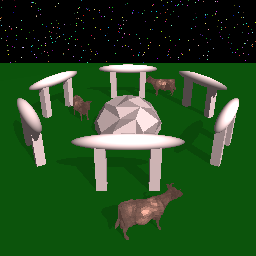
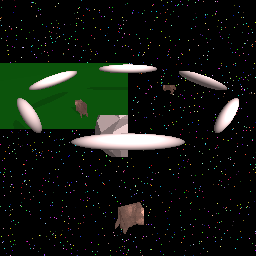
something's wrong

diff --git a/A4/Primitive.cpp b/A4/Primitive.cpp
@@ -56,47 +56,89 @@ Intersect NonhierSphere::checkIntersection(const Ray & ray) {
     }
 }
 
+const glm::dvec3 NonhierBox::normals[6] = {
+        // x axis
+        glm::dvec3(1, 0, 0), glm::dvec3(-1, 0, 0),
+
+        // y axis
+        glm::dvec3(0, 1, 0), glm::dvec3(0, -1, 0),
+
+        // z axis
+        glm::dvec3(0, 0, 1), glm::dvec3(0, 0, -1),
+    };
+
+
 NonhierBox::~NonhierBox()
 {
 }
 
 Intersect NonhierBox::checkIntersection(const Ray & ray) {
-    // TODO: six planes constructed from m_pos and m_size
-    // TODO: move these to static const
     // normals are just 6
     // Even indices are positive faces
-    glm::vec3 normals[6] = {
-        // x axis
-        glm::vec3(1, 0, 0), glm::vec3(-1, 0, 0),
-
-        // y axis
-        glm::vec3(0, 1, 0), glm::vec3(0, -1, 0),
-
-        // z axis
-        glm::vec3(0, 0, 1), glm::vec3(0, 0, -1),
-    };
-
     // index 0 for positive normals, index 1 for negative normals
-    glm::vec3 points[2] = {
-        m_pos+m_size*glm::vec3(1), m_pos,
-    };
-
-    
-    //glm::vec3 bounds[6] = {
 
     // Find all planes that the ray intersects with
     // It's at most 3
     //std::cout << "non hier box check intersection " << std::endl;
     //std::cout << "ray direction: " << glm::to_string(ray.direction) << std::endl;
+    //std::cout << glm::to_string(normals[0]) << std::endl;
+
+    //int planesHit = 0;
+    //Intersect closestIntersect = Intersect();
+    //for (int i=0; i<6 && planesHit < 3; i++) {
+    //    // Intersects plane if dot product of direction and normal is negative
+    //    // t is positive along the ray
+    //    // float directNormDot, pointNormDot;
+    //    if ( /*(directNormDot =*/ glm::dot(glm::dvec3(ray.direction), normals[i])/*)*/ < 0 && /*(pointNormDot =*/ glm::dot((glm::dvec3(ray.origin) - points[i%2]), normals[i])/*)*/ > 0) {
+
+    //        //double distanceHit = pointNormDot/(-directNormDot);
+    //        double distanceHit = glm::dot((glm::dvec3(ray.origin) - points[i%2]), normals[i])/(-glm::dot(glm::dvec3(ray.direction), normals[i]));
+    //        
+    //        // Intersects face if intersect point within bounds
+    //        glm::vec3 pointHit = ray.pointAtDistance(distanceHit);
+
+    //        // for each axis that we need to check
+    //        bool withinBounds = true;
+
+    //        std::cout << "distanceHit: " << distanceHit << std::endl;
+    //        std::cout << "dimension: " << glm::to_string(m_dimension) << std::endl;
+    //        std::cout << "m_pos: " << glm::to_string(m_pos) << std::endl;
+    //        if (withinBounds && normals[i].x == 0) {
+    //            withinBounds = withinBounds && pointHit.x >= m_pos.x && pointHit.x <= m_pos.x + m_dimension.x;
+    //        }
+    //        if (withinBounds && normals[i].y == 0) {
+    //            withinBounds = withinBounds && pointHit.y >= m_pos.y && pointHit.y <= m_pos.y + m_dimension.y;
+    //        }
+    //        if (withinBounds && normals[i].z == 0) {
+    //            withinBounds = withinBounds && pointHit.z >= m_pos.z && pointHit.z <= m_pos.y + m_dimension.z;
+    //        }
+
+    //        //std::cout << "ray intersected with plane " << glm::to_string(normals[i]) << " at " << glm::to_string(pointHit) << " " << withinBounds << std::endl;
+    //        planesHit++;
+
+    //        // It's a hit!
+    //        if (withinBounds) {
+    //            // since we're using normals, the ray should only hit one face
+    //            closestIntersect = Intersect(ray, true, distanceHit, normals[i]);
+    //            break;
+    //        }
+
+    //    }
+    //}
+    
+    //std::cout << std::endl;
+
     int planesHit = 0;
     Intersect closestIntersect = Intersect();
     for (int i=0; i<6 && planesHit < 3; i++) {
         // Intersects plane if dot product of direction and normal is negative
         // t is positive along the ray
         // TODO: store and reuse these dot products for effieciency
-        if (glm::dot(ray.direction, normals[i]) < 0 && glm::dot((ray.origin - points[i%2]), normals[i]) > 0) {
+        std::cout << "ray direction: " << glm::to_string(glm::dvec3(ray.direction)) << " " << glm::to_string(ray.direction) << std::endl;
+        std::cout << "ray direction: " << glm::to_string(glm::dvec3(ray.origin)) << " " << glm::to_string(ray.origin) << std::endl;
+        if (glm::dot(glm::dvec3(ray.direction), normals[i]) < 0 && glm::dot((glm::dvec3(ray.origin) - points[i%2]), normals[i]) > 0) {
 
-            double distanceHit = (glm::dot((ray.origin - points[i%2]), normals[i]))/(-glm::dot(ray.direction, normals[i]));
+            double distanceHit = (glm::dot((glm::dvec3(ray.origin) - points[i%2]), normals[i]))/(-glm::dot(glm::dvec3(ray.direction), normals[i]));
             
             // Intersects face if intersect point within bounds
             glm::vec3 pointHit = ray.pointAtDistance(distanceHit);
@@ -104,13 +146,13 @@ Intersect NonhierBox::checkIntersection(const Ray & ray) {
             // for each axis that we need to check
             bool withinBounds = true;
             if (withinBounds && normals[i].x == 0) {
-                withinBounds = withinBounds && pointHit.x >= m_pos.x && pointHit.x <= m_pos.x + m_size;
+                withinBounds = withinBounds && pointHit.x >= m_pos.x && pointHit.x <= m_pos.x + m_dimension.x;
             }
             if (withinBounds && normals[i].y == 0) {
-                withinBounds = withinBounds && pointHit.y >= m_pos.y && pointHit.y <= m_pos.y + m_size;
+                withinBounds = withinBounds && pointHit.y >= m_pos.y && pointHit.y <= m_pos.y + m_dimension.y;
             }
             if (withinBounds && normals[i].z == 0) {
-                withinBounds = withinBounds && pointHit.z >= m_pos.z && pointHit.z <= m_pos.z + m_size;
+                withinBounds = withinBounds && pointHit.z >= m_pos.z && pointHit.z <= m_pos.z + m_dimension.z;
             }
 
             //std::cout << "ray intersected with plane " << glm::to_string(normals[i]) << " at " << glm::to_string(pointHit) << " " << withinBounds << std::endl;
@@ -125,7 +167,7 @@ Intersect NonhierBox::checkIntersection(const Ray & ray) {
 
         }
     }
-    //std::cout << std::endl;
+    
 
     return closestIntersect;
 }

diff --git a/A4/Mesh.cpp b/A4/Mesh.cpp
@@ -6,10 +6,12 @@
 
 // #include "cs488-framework/ObjFileDecoder.hpp"
 #include "Mesh.hpp"
+const std::string Mesh::assetFolder = "Assets";
 
 Mesh::Mesh( const std::string& fname )
 	: m_vertices()
 	, m_faces()
+	, boundingBox(NonhierBox(glm::vec3(), 0))
 {
 	std::string fpath = assetFolder + "/" + fname;
 	std::cout << "Creating a new mesh: " << fpath << std::endl;
@@ -33,6 +35,8 @@ Mesh::Mesh( const std::string& fname )
 			m_faces.push_back( Triangle( s1 - 1, s2 - 1, s3 - 1 ) );
 		} }
 
+	glm::vec3 boundingBoxMax = glm::vec3(std::numeric_limits<float>::min());
+	glm::vec3 boundingBoxMin = glm::vec3(std::numeric_limits<float>::max());
 	for (std::vector<glm::vec3>::iterator it = m_vertices.begin(); it != m_vertices.end(); ++it) {
 		boundingBoxMax = glm::vec3( glm::max(it->x, boundingBoxMax.x),
 									glm::max(it->y, boundingBoxMax.y),
@@ -42,6 +46,7 @@ Mesh::Mesh( const std::string& fname )
 									glm::min(it->y, boundingBoxMin.y),
 									glm::min(it->z, boundingBoxMin.z));
 	}
+	boundingBox = NonhierBox(boundingBoxMin, boundingBoxMax - boundingBoxMin);
 }
 
 std::ostream& operator<<(std::ostream& out, const Mesh& mesh)
@@ -111,13 +116,18 @@ Intersect Mesh::checkIntersectionTriangle(const Ray & ray, const Triangle & tria
 
 Intersect Mesh::checkIntersection(const Ray & ray) {
 
-	// Iterate over all the triangles to find the closest one hit
-	Intersect closestIntersect = Intersect(ray, false, std::numeric_limits<double>::max(), glm::vec3(0));
-	for (std::vector<Triangle>::iterator it = m_faces.begin(); it != m_faces.end(); ++it) {
-		Intersect curIntersect = checkIntersectionTriangle(ray, *it);
-		if (curIntersect.isHit && curIntersect.distanceHit < closestIntersect.distanceHit) {
-			closestIntersect = curIntersect;
+	Intersect closestIntersect = Intersect();
+	//if (boundingBox.checkIntersection(ray).isHit) {
+
+		// Iterate over all the triangles to find the closest one hit
+		closestIntersect = Intersect(ray, false, std::numeric_limits<double>::max(), glm::vec3(0));
+		for (std::vector<Triangle>::iterator it = m_faces.begin(); it != m_faces.end(); ++it) {
+			Intersect curIntersect = checkIntersectionTriangle(ray, *it);
+			if (curIntersect.isHit && curIntersect.distanceHit < closestIntersect.distanceHit) {
+				closestIntersect = curIntersect;
+			}
 		}
-	}
+	//}
+
 	return closestIntersect;
 }

diff --git a/A4/Primitive.hpp b/A4/Primitive.hpp
@@ -36,15 +36,30 @@ private:
 
 class NonhierBox : public Primitive {
 public:
+
   NonhierBox(const glm::vec3& pos, double size)
-    : m_pos(pos), m_size(size)
+    : m_pos(pos), m_dimension(glm::dvec3(size))
   {
+    glm::vec3 points[2] = {
+        m_pos+m_dimension, m_pos,
+    };
+  }
+
+  NonhierBox(const glm::vec3& pos, const glm::vec3& dimension)
+    : m_pos(pos), m_dimension(dimension)
+  {
+    glm::vec3 points[2] = {
+        m_pos+m_dimension, m_pos,
+    };
   }
   
   virtual ~NonhierBox();
   virtual Intersect checkIntersection(const Ray & ray);
 
 private:
-  glm::vec3 m_pos;
-  double m_size;
+  static const glm::dvec3 normals[6];
+
+  glm::dvec3 m_pos;
+  glm::dvec3 m_dimension;
+  glm::dvec3 points[2];
 };

diff --git a/A4/A4.cpp b/A4/A4.cpp
@@ -152,9 +152,9 @@ void A4_Render(
 				for (Light * light : lights) {
 					Ray shadowRay = Ray(primRayIntersect.pointHit, light->position);
 					Intersect shadowIntersect = root->castRay(shadowRay);
-					if (!shadowIntersect.isHit) {
+					//if (!shadowIntersect.isHit) {
 						totalLighting += primRayIntersect.getLighting(light);
-					}
+					//}
 				}
 
 				image(x, y, 0) = totalLighting.r;

diff --git a/A4/Mesh.hpp b/A4/Mesh.hpp
@@ -37,9 +37,8 @@ private:
 	std::vector<glm::vec3> m_vertices;
 	std::vector<Triangle> m_faces;
 
-	glm::vec3 boundingBoxMin;
-	glm::vec3 boundingBoxMax;
+	NonhierBox boundingBox;
 
 	friend std::ostream& operator<<(std::ostream& out, const Mesh& mesh);
-	std::string assetFolder = "Assets";
+	static const std::string assetFolder;
 };
